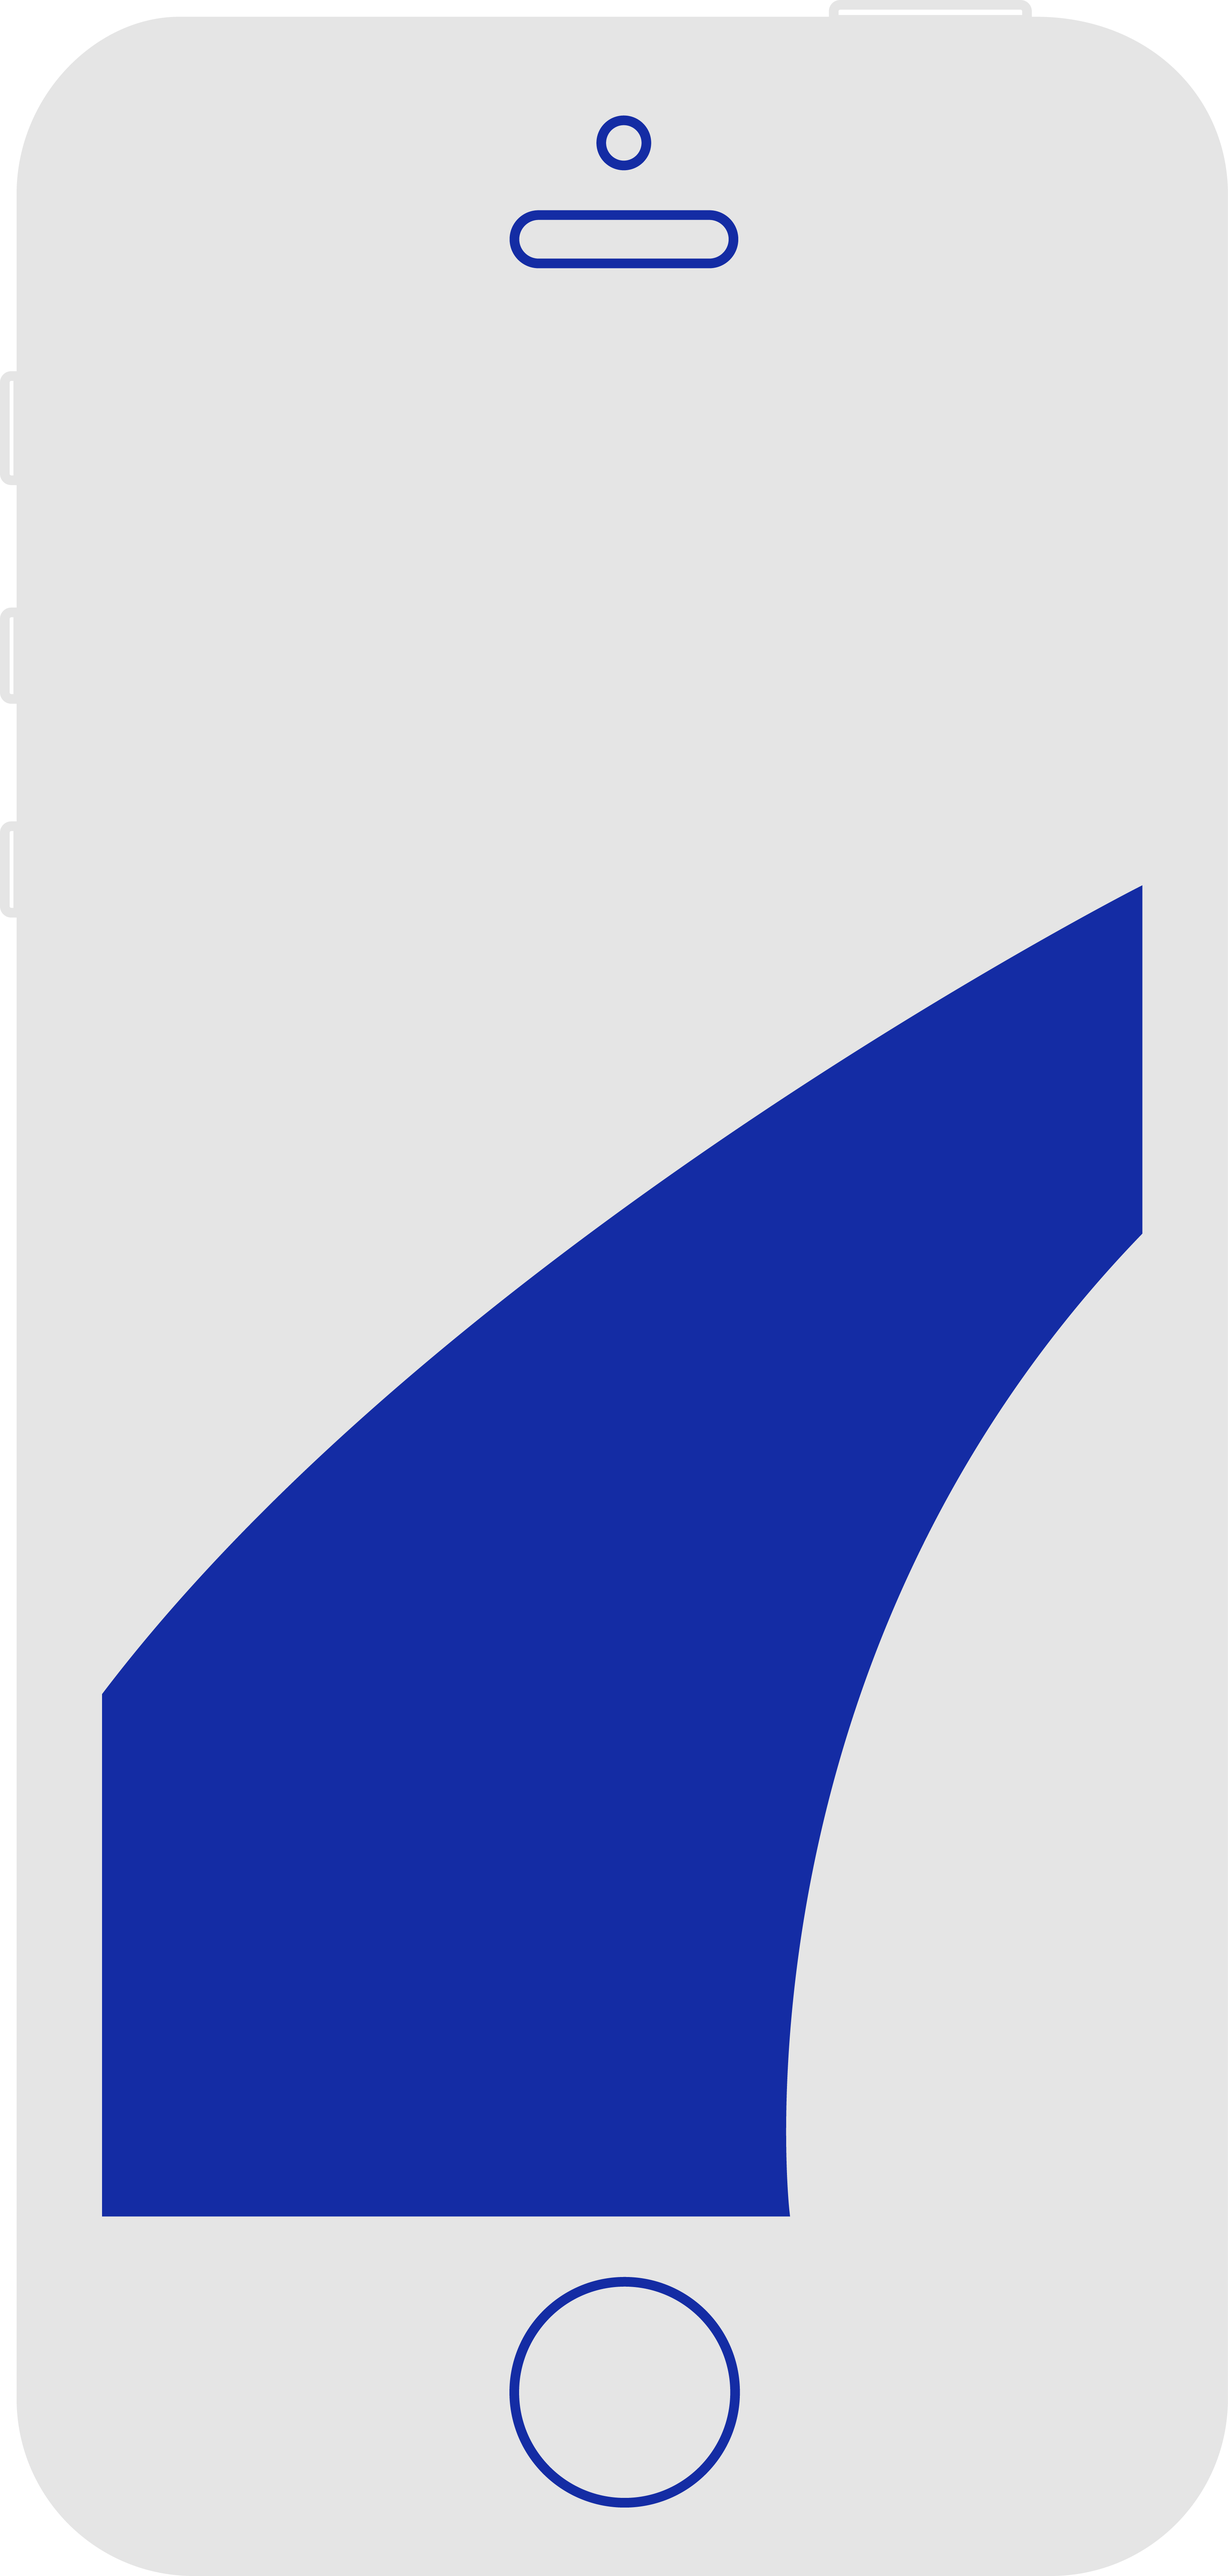
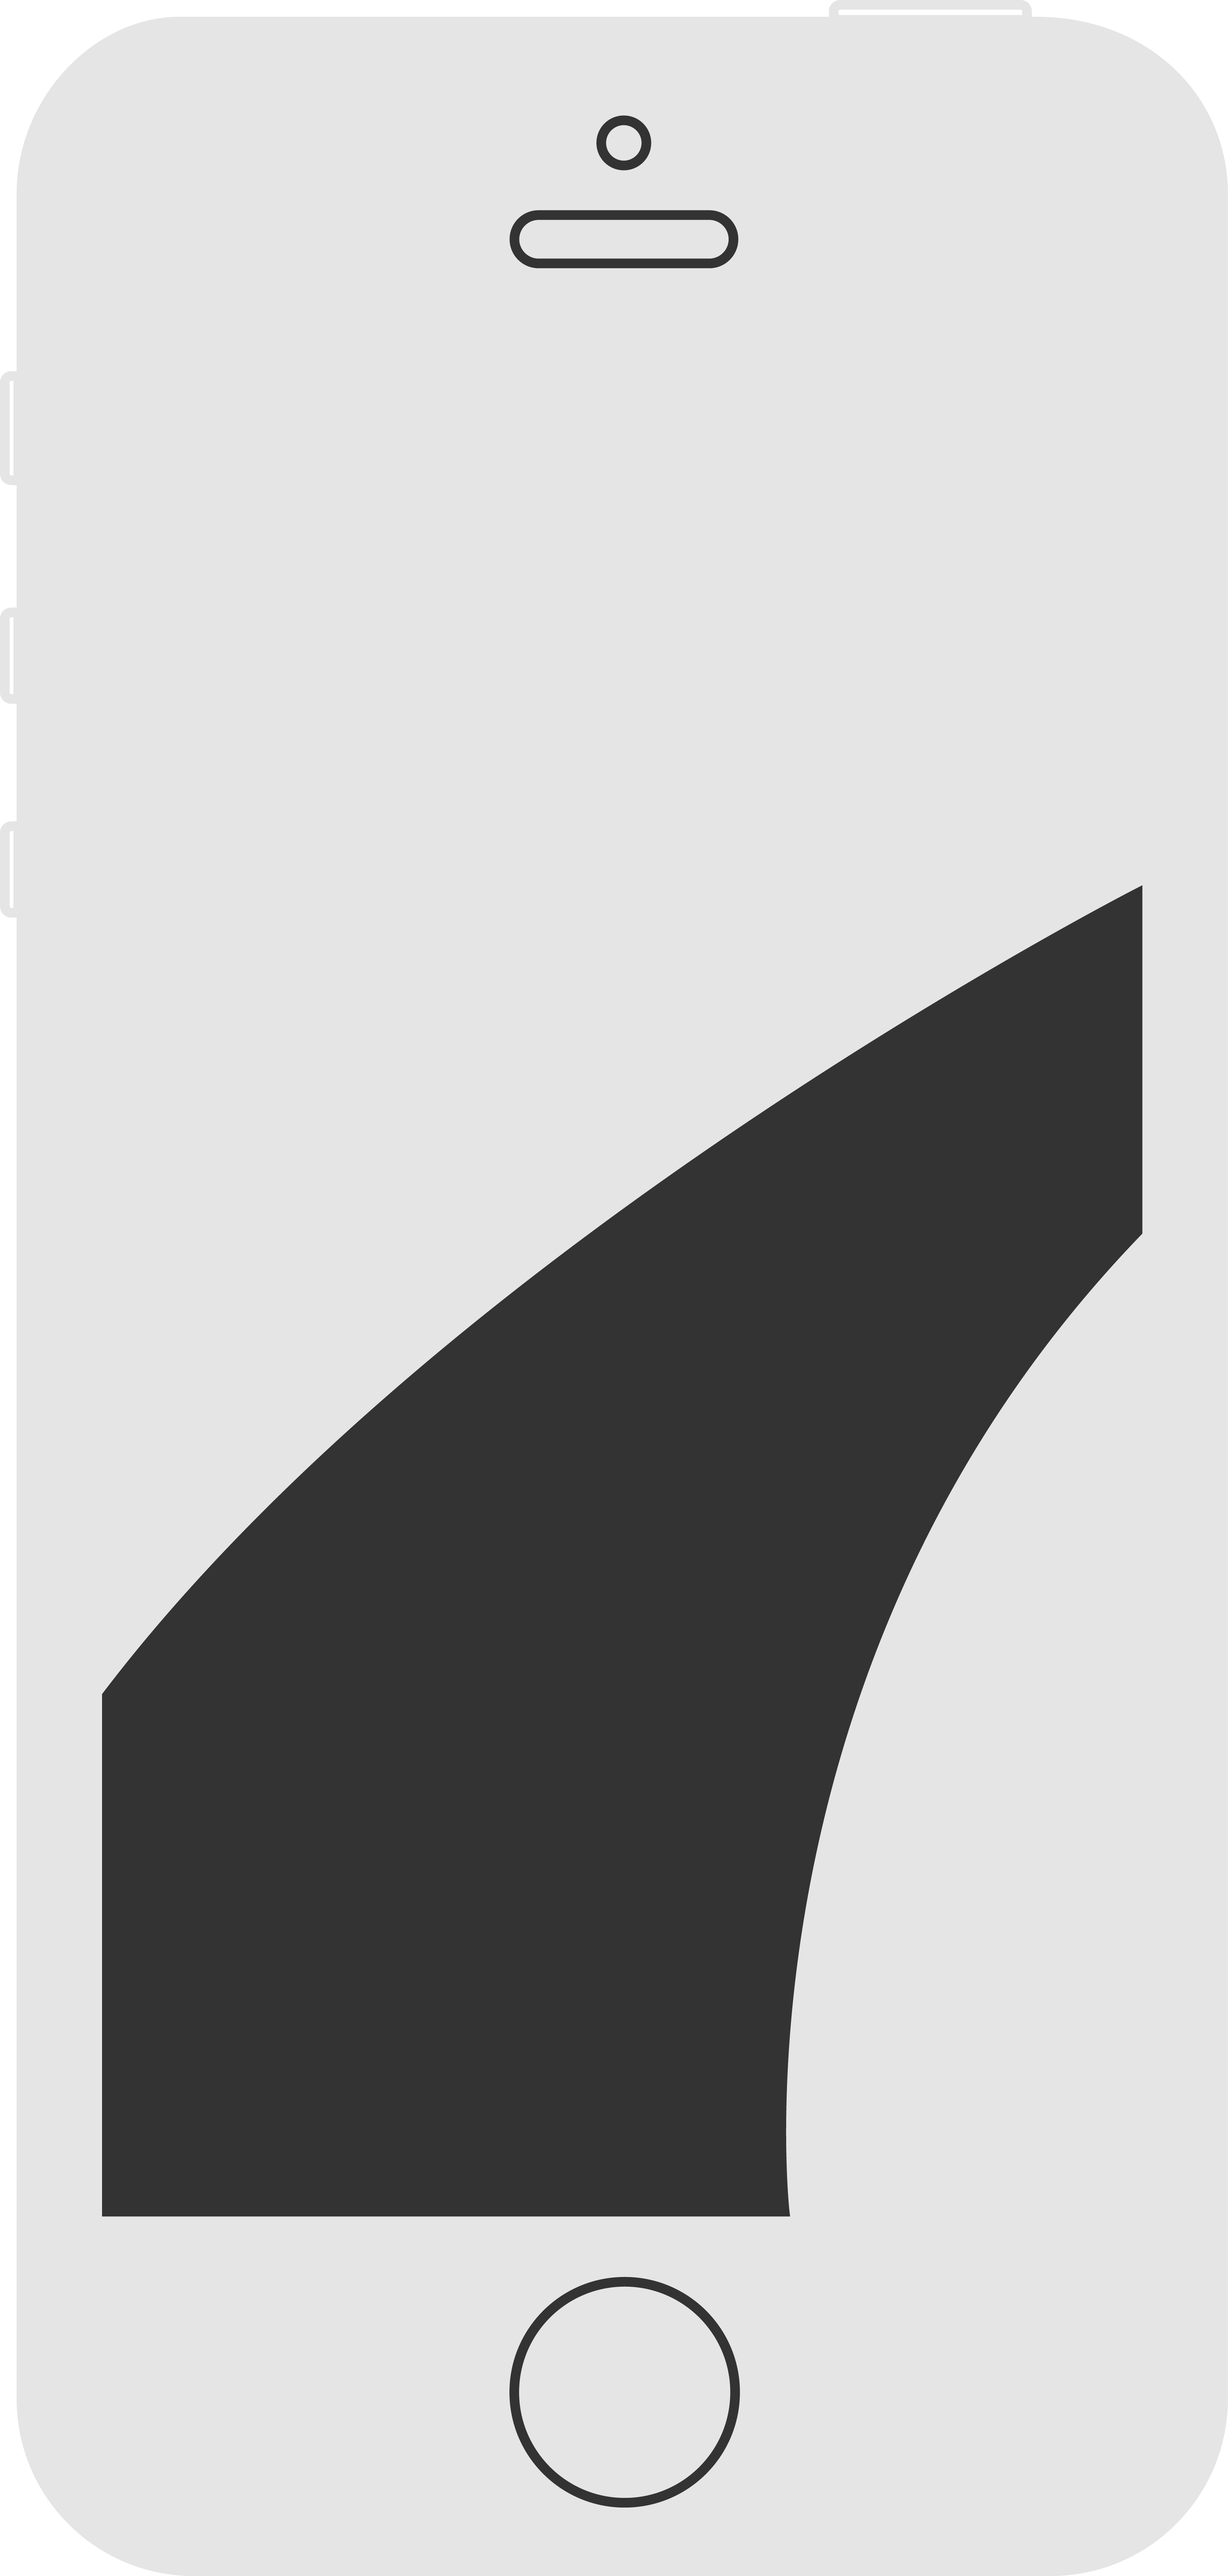
theme update

diff --git a/app/assets/stylesheets/welcome.scss b/app/assets/stylesheets/welcome.scss
@@ -32,7 +32,7 @@ body {
 .mobileheader {
   height: 150px;
   padding-left: 15px;
-  background: none;
+  background: var(--background-color);
 }
 
 .mobileheader h1 {
@@ -42,6 +42,7 @@ body {
   margin: 0px;
   padding-top: 15px;
   padding-bottom: 10px;
+  color: var(--main-color);
 }
 
 .mobileheader ul {
@@ -60,6 +61,7 @@ body {
   font-family: 'Kanit', sans-serif;
   font-weight: 400;
   text-decoration: none;
+  color: var(--main-color);
 }
 
 .mobileheader a:hover {
@@ -70,14 +72,15 @@ body {
 /* header */
 
 .headerwrapper {
-  background: url('headerdesktop.jpg');
+  background: var(--background-color);
 }
 
 .header {
   height: 550px;
-  background: rgba(0, 0, 0, .8);
+  background: url('headerdesktop.png');
   background-repeat: no-repeat;
-  background-attachment: scroll;
+  background-size: cover;
+  background-position: right;
 }
 
 /* nav */
@@ -87,8 +90,8 @@ body {
 }
 
 .dropdown-toggle {
-  color: #FFF;
-  background: #142CA4;
+  color: var(--background-color);
+  background: var(--main-color);
 }
 
 .navigation {
@@ -104,9 +107,9 @@ body {
   border: solid;
   border-width: 2px;
   margin: 0px 5px;
-  color: #fff;
-  border-color: #142CA4;
-  background: #142CA4;
+  color: var(--background-color);
+  border-color: var(--main-color);
+  background: var(--main-color);
   -webkit-box-shadow: 5px 8px 31px -8px rgba(0,0,0,0.75);
   -moz-box-shadow: 5px 8px 31px -8px rgba(0,0,0,0.75);
   box-shadow: 5px 8px 31px -8px rgba(0,0,0,0.75);
@@ -135,11 +138,11 @@ body {
 }
 
 .content a {
-  background-color: #142CA4;
+  background-color: var(--main-color);
   font-family: 'Kanit', sans-serif;
   font-weight: 300;
-  color: #FFF;
-  border: thin solid #142CA4;
+  color: var(--background-color);
+  border: thin solid var(--main-color);
   border-radius: 6px;
   border-width: 2px;
   font-size: 16px;
@@ -151,8 +154,7 @@ body {
 }
 
 .content a:hover {
-  background-color: #142CA4;
-  color: #FFF;
+  background-color: var(--main-color);
 
 }
 
@@ -182,18 +184,18 @@ body {
 }
 
 #searchbutton {
-  color: #FFF;
+  color: var(--background-color);
   border-radius: 6px;
-  border-color: #142CA4;
+  border-color: var(--main-color);
   padding: 10px 20px;
   margin: 0px 2px;
   margin-bottom: 2px;
   text-decoration: none;
-  background: #142CA4;
+  background: var(--main-color);
 }
 
 #searchbutton:hover {
-  background-color: #142CA4;
+  background-color: var(--main-color);
   border: none;
 }
 
@@ -201,7 +203,7 @@ body {
 
 .display {
   text-align: left;
-  background-color: rgba(0, 0, 0, .8);
+  background-color: var(--background-color);
   color: #fff;
 }
 
@@ -222,15 +224,17 @@ body {
 
 .display p {
   font-family: 'Kanit', sans-serif;
-  font-weight: 100;
+  font-weight: 200;
   font-size: 26px;
   line-height: 26px;
+  color: #FFF;
 }
 
 .display h2 {
   font-family: 'Kanit', sans-serif;
   font-weight: 200;
   font-size: 56px;
+  color: var(--main-color);
 }
 
 /* user content */
@@ -239,8 +243,8 @@ body {
   padding-top: 20px;
   padding-bottom: 60px;
   font-family: 'Kanit', sans-serif;
-  background: #142CA4;
-  color: #FFF;
+  background: var(--main-color);
+  color: var(--background-color);
 }
 
 .usercontent h1 {
@@ -248,7 +252,7 @@ body {
   font-weight: 200;
   margin-top: 0px;
   font-size: 60px;
-  color: #FFF;
+  color: var(--background-color);
 }
 
 .usercontent p {
@@ -256,7 +260,7 @@ body {
   text-align: center;
   font-weight: 100;
   font-size: 18px;
-  color: #FFF;
+  color: var(--background-color);
   margin: 0px 20px;
 }
 
@@ -268,7 +272,7 @@ body {
 .usercontent .glyphicon {
   font-size: 90px;
   line-height: 150px;
-  color: #0D7EB1;
+  color: var(--background-color);
 }
 
 #usercontentbutton {
@@ -276,7 +280,7 @@ body {
 }
 
 .usercontent a {
-  color: #142CA4;
+  color: var(--background-color);
   background: #FFF;
   font-size: 48px;
   padding: 10px 15px;
@@ -298,7 +302,7 @@ body {
 .footer {
   padding: 20px 0px 80px;
   text-align: right;
-  background: rgba(0, 0, 0, .8);
+  background: var(--background-color);
   color: #FFF;
 }
 
@@ -329,7 +333,7 @@ body {
 
 .footer li a:hover {
   background: none;
-  color: #fff;
+  color: #FFF;
 }
 
 .reference {
@@ -354,12 +358,9 @@ body {
   .navigation {
     display: none;
   }
-  .headerwrapper {
-    background-size: cover;
-  }
   .header {
     height: 250px;
-    background: none;
+    background-size: cover;
   }
   .content {
     height: 225px;
@@ -374,10 +375,6 @@ body {
   }
   .find {
     display: none;
-  }
-  .display {
-    color: #000;
-    background: #FFF;
   }
   .display .container div {
     height: 500px;
@@ -395,15 +392,11 @@ body {
   .navigation {
     display: none;
   }
-  .headerwrapper {
-    background-size: cover;
-  }
   #header {
     height: 325px;
   }
   .header {
     background-size: cover;
-    background: none;
     height: 440px;
   }
   .content {
@@ -423,11 +416,6 @@ body {
   }
   .find {
     display: none;
-  }
-  
-  .display {
-    color: #000;
-    background: #FFF;
   }
   .display .container div {
     height: 500px;
@@ -460,7 +448,6 @@ body {
   }
   .header {
     height: 440px;
-    background: none;
   }
   .find {
     display: none;
@@ -516,7 +503,7 @@ body {
   .mobileheader {
     display: none;
   }
-  .headerwrapper {
+  .header {
     background-position: right;
     background-repeat: no-repeat;
   }

diff --git a/app/assets/stylesheets/global.scss b/app/assets/stylesheets/global.scss
@@ -4,9 +4,9 @@ html, body, .container-fluid, .wrapper, #mapid { height: 100%; }
 // variables //
 
 :root {
-  --main-color: #142CA4;
+  --main-color: #333;
   --secondary-color: #0D7EB1;
-  --background-color: rgba(0, 0, 0, .8);
+  --background-color: #fb4148;
 }
 
 #bluecolor {
